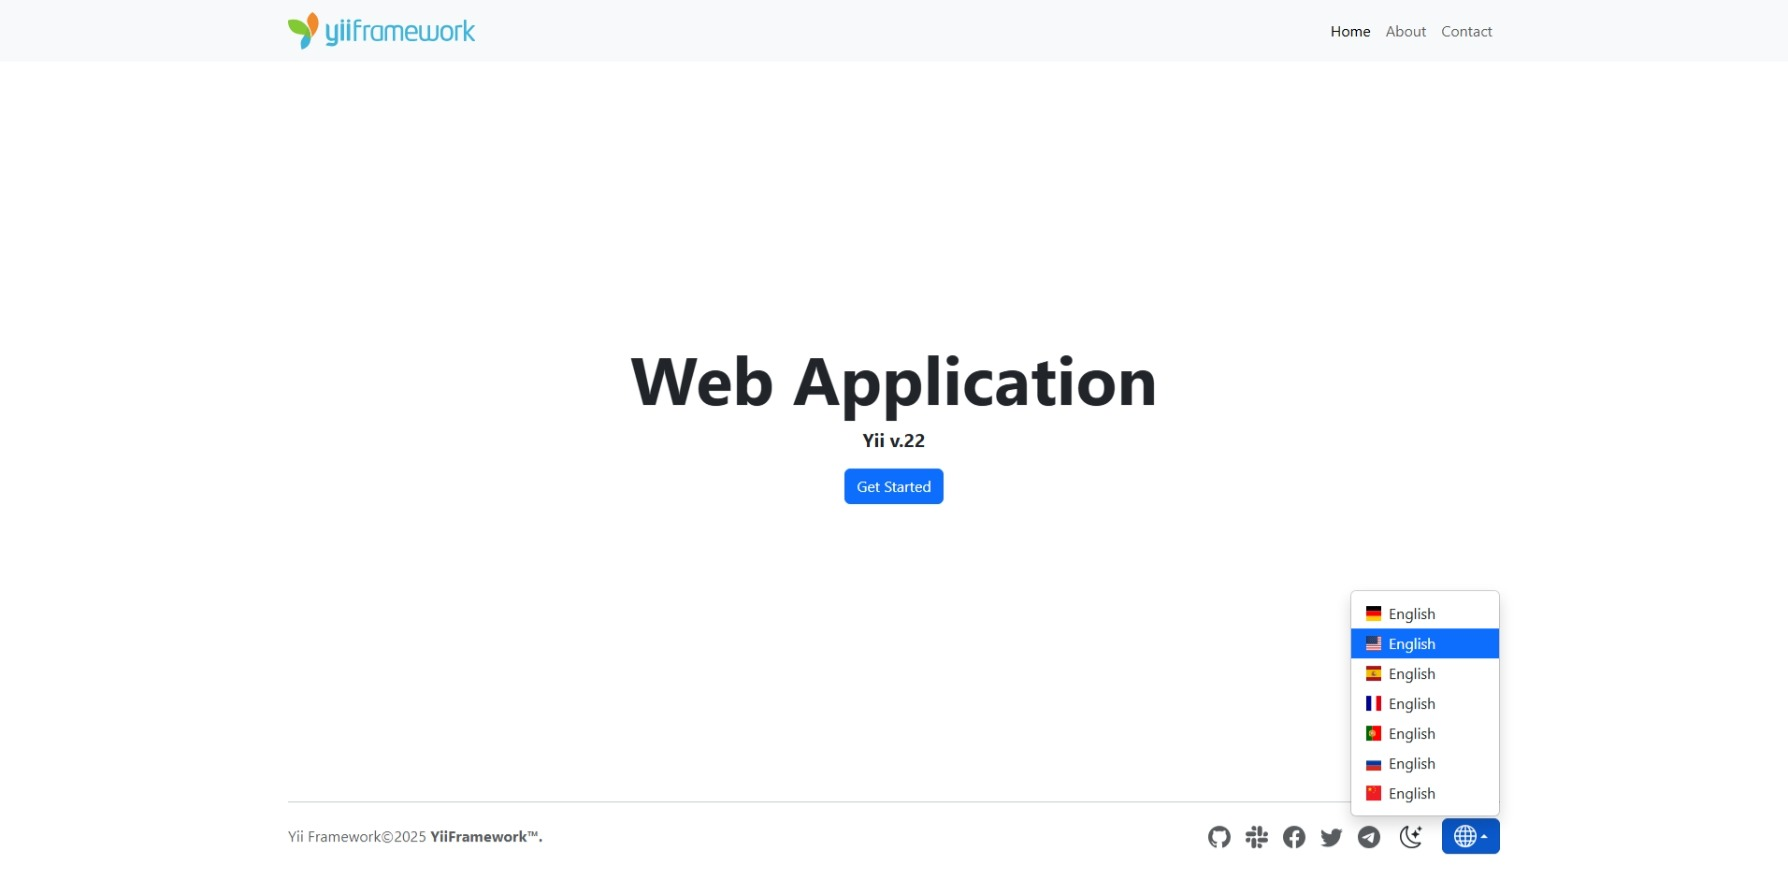
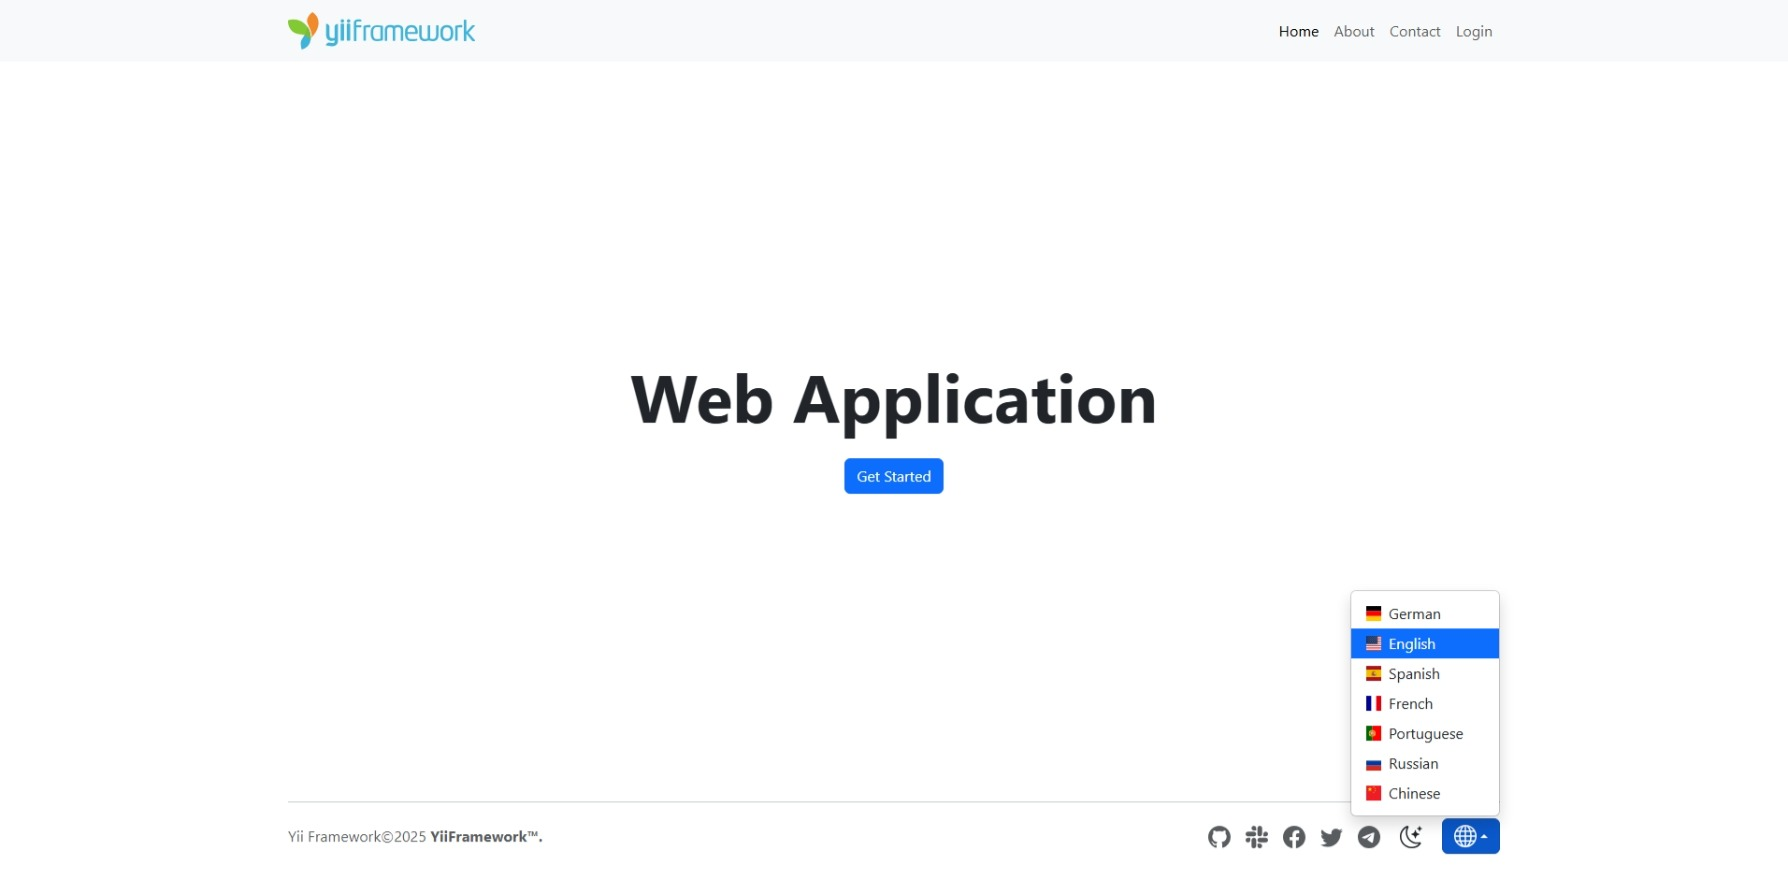
Remove Yii version display from the index page and adjust button styling for consistency. (#94)

diff --git a/src/usecase/site/view/index.php b/src/usecase/site/view/index.php
@@ -10,12 +10,11 @@ $this->title = Yii::t('app.basic', 'Index');
 ?>
 <div class="jumbotron jumbotron-fluid text-center">
     <h1 class="display-2 fw-bold"><?= Yii::t('app.basic', 'Web Application') ?></h1>
-    <p class="lead fw-bold"><?= Yii::t('app.basic', 'Yii v.22') ?></p>
     <?= Html::a(
         Yii::t('app.basic', 'Get Started'),
         'https://www.yiiframework.com/doc/',
         [
-            'class' => 'btn btn-primary',
+            'class' => 'btn btn-primary mt-3',
         ],
     ) ?>
 </div>

diff --git a/tests/Acceptance/SiteCest.php b/tests/Acceptance/SiteCest.php
@@ -17,7 +17,6 @@ final class SiteCest
 
         $I->expectTo('see page index.');
         $I->see('Web Application');
-        $I->see('Yii v.22');
         $I->see('English');
     }
 }

diff --git a/README.md b/README.md
@@ -40,40 +40,35 @@ Web Application Basic of Yii Version 2. <a href="http://www.yiiframework.com/" t
 ```text
 root
 ├── config                  
-│   ├── common              Common configuration.
-│   │   ├── components.php  
-│   │   └── container.php   
-│   ├── console             Console configuration.
+│   ├── common                              Common configuration.
+│   │   └── components.php  
+│   ├── console                             Console configuration.
+│   │   └── app.php
+│   ├── web                                 Web configuration.
 │   │   ├── app.php
-│   │   └── components.php     
-│   ├── web                 Web configuration.
-│   │   ├── app.php
-│   │   ├── bootstrap.php    
 │   │   ├── components.php
-│   │   ├── container.php
 │   │   └── modules.php 
-│   ├── build.php           Build configuration codeception tests.
-│   ├── config-plugin.php   Plugin configuration.
-│   ├── messages.php        Translation configuration.
-│   ├── params-console.php  Console parameters.
-│   ├── params-web.php      Web parameters.
-│   └── params.php          Common parameters.
+│   ├── messages.php                        Translation configuration.
+│   ├── params-console.php                  Console parameters.
+│   └── params-web.php                      Web parameters.
 ├── src             
 │   ├── framework 
-│   │   ├── asset           Asset bundle files.
-│   │   ├── event           Event handler files.
+│   │   ├── asset                           Asset bundle files.
+│   │   ├── event                           Event handler files.
 │   │   └── resource 
-│   │       ├── css         Css files.
-│   │       ├── js          Js files.
-│   │       ├── layout      Layout files.
-│   │       └── message     Translation files.
+│   │       ├── css                         Css files.
+│   │       ├── js                          Js files.
+│   │       ├── layout                      Layout files.
+│   │       ├── message                     Translation files.
+│   │       └── ApplicationParameters.php   Configuration application parameters.
 │   └── usecase
-│       ├── contact         Contact use case.
-│       ├── hello           Hello use case (console).
-│       └── site            Site use case.
-├── tests                   Tests codeception.
-├── vendor                  Composer dependencies.
-└── public                  Web server public.
+│       ├── contact                         Contact use case.
+│       ├── hello                           Hello use case (console).
+│       ├── security                        Security use case.
+│       └── site                            Site use case.
+├── tests                                   Tests codeception.
+├── vendor                                  Composer dependencies.
+└── public                                  Web server public.
 ```
 
 ## Features
